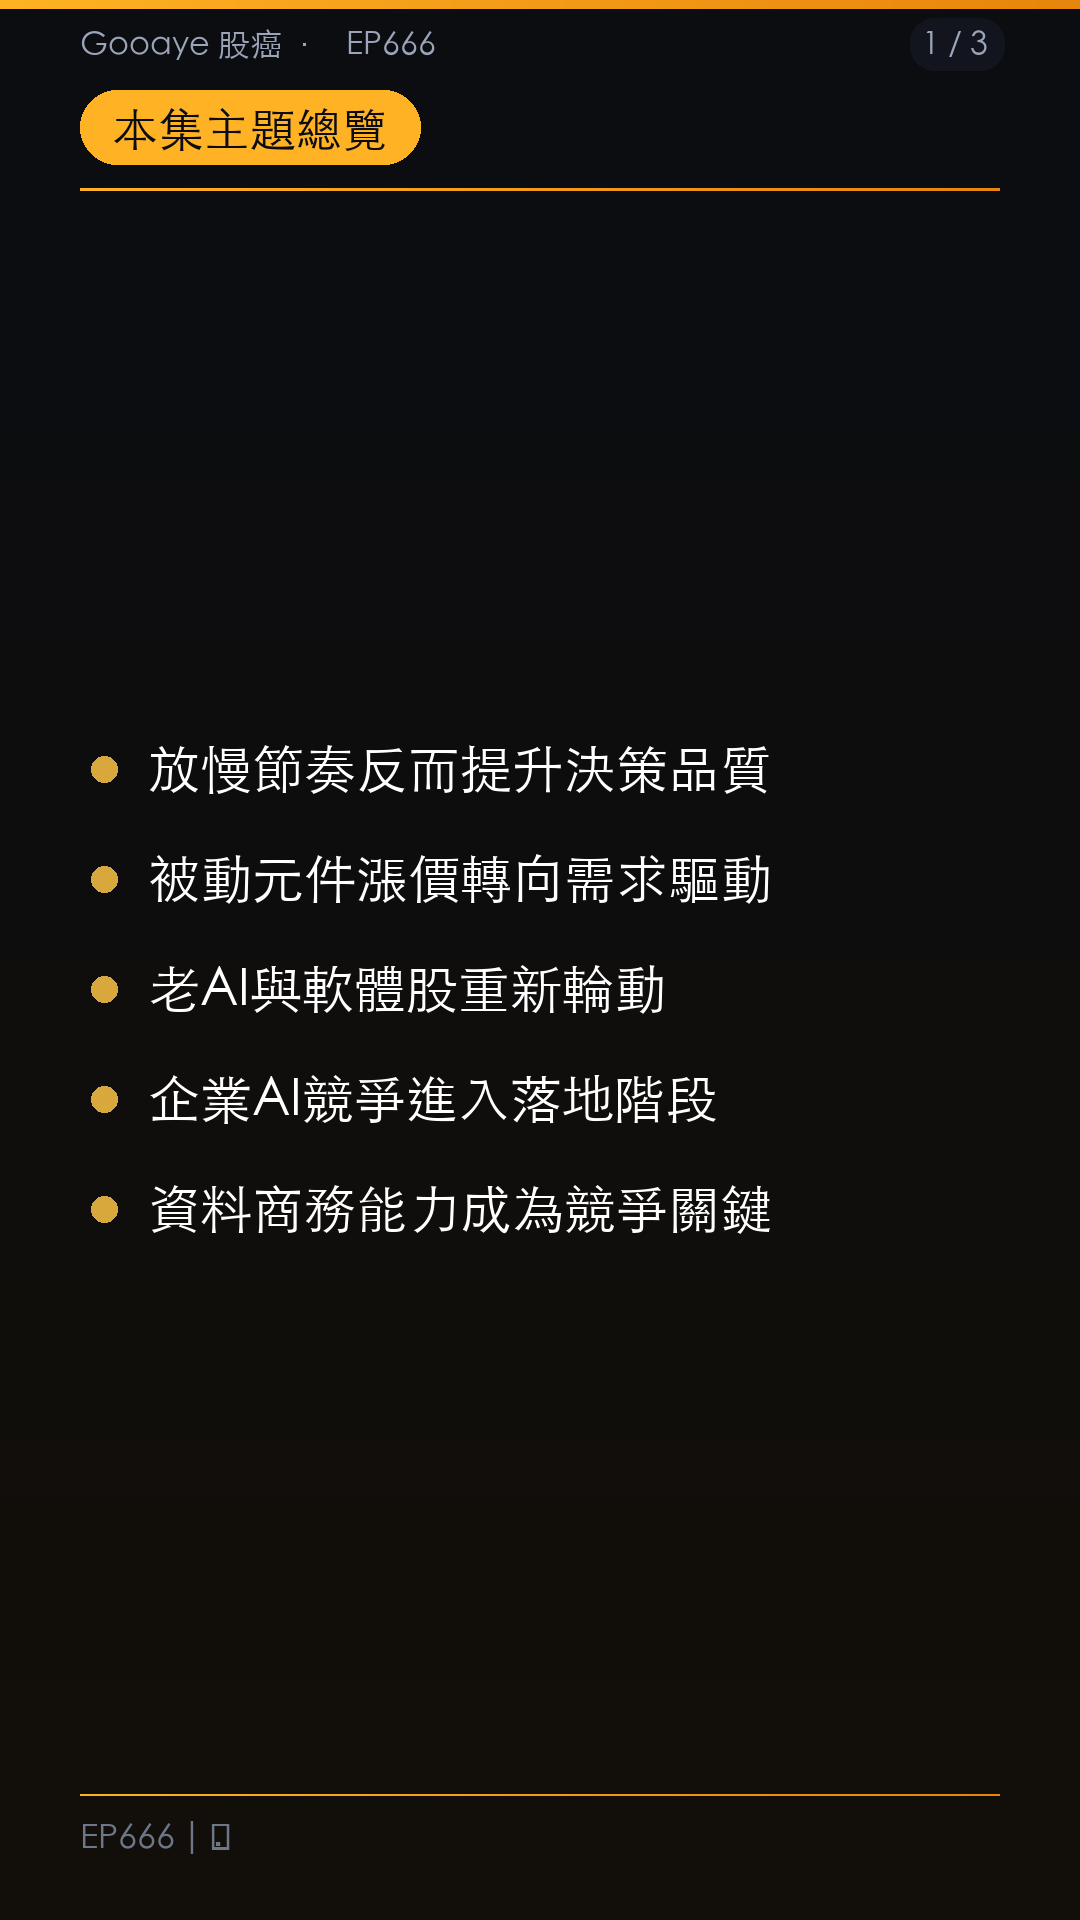
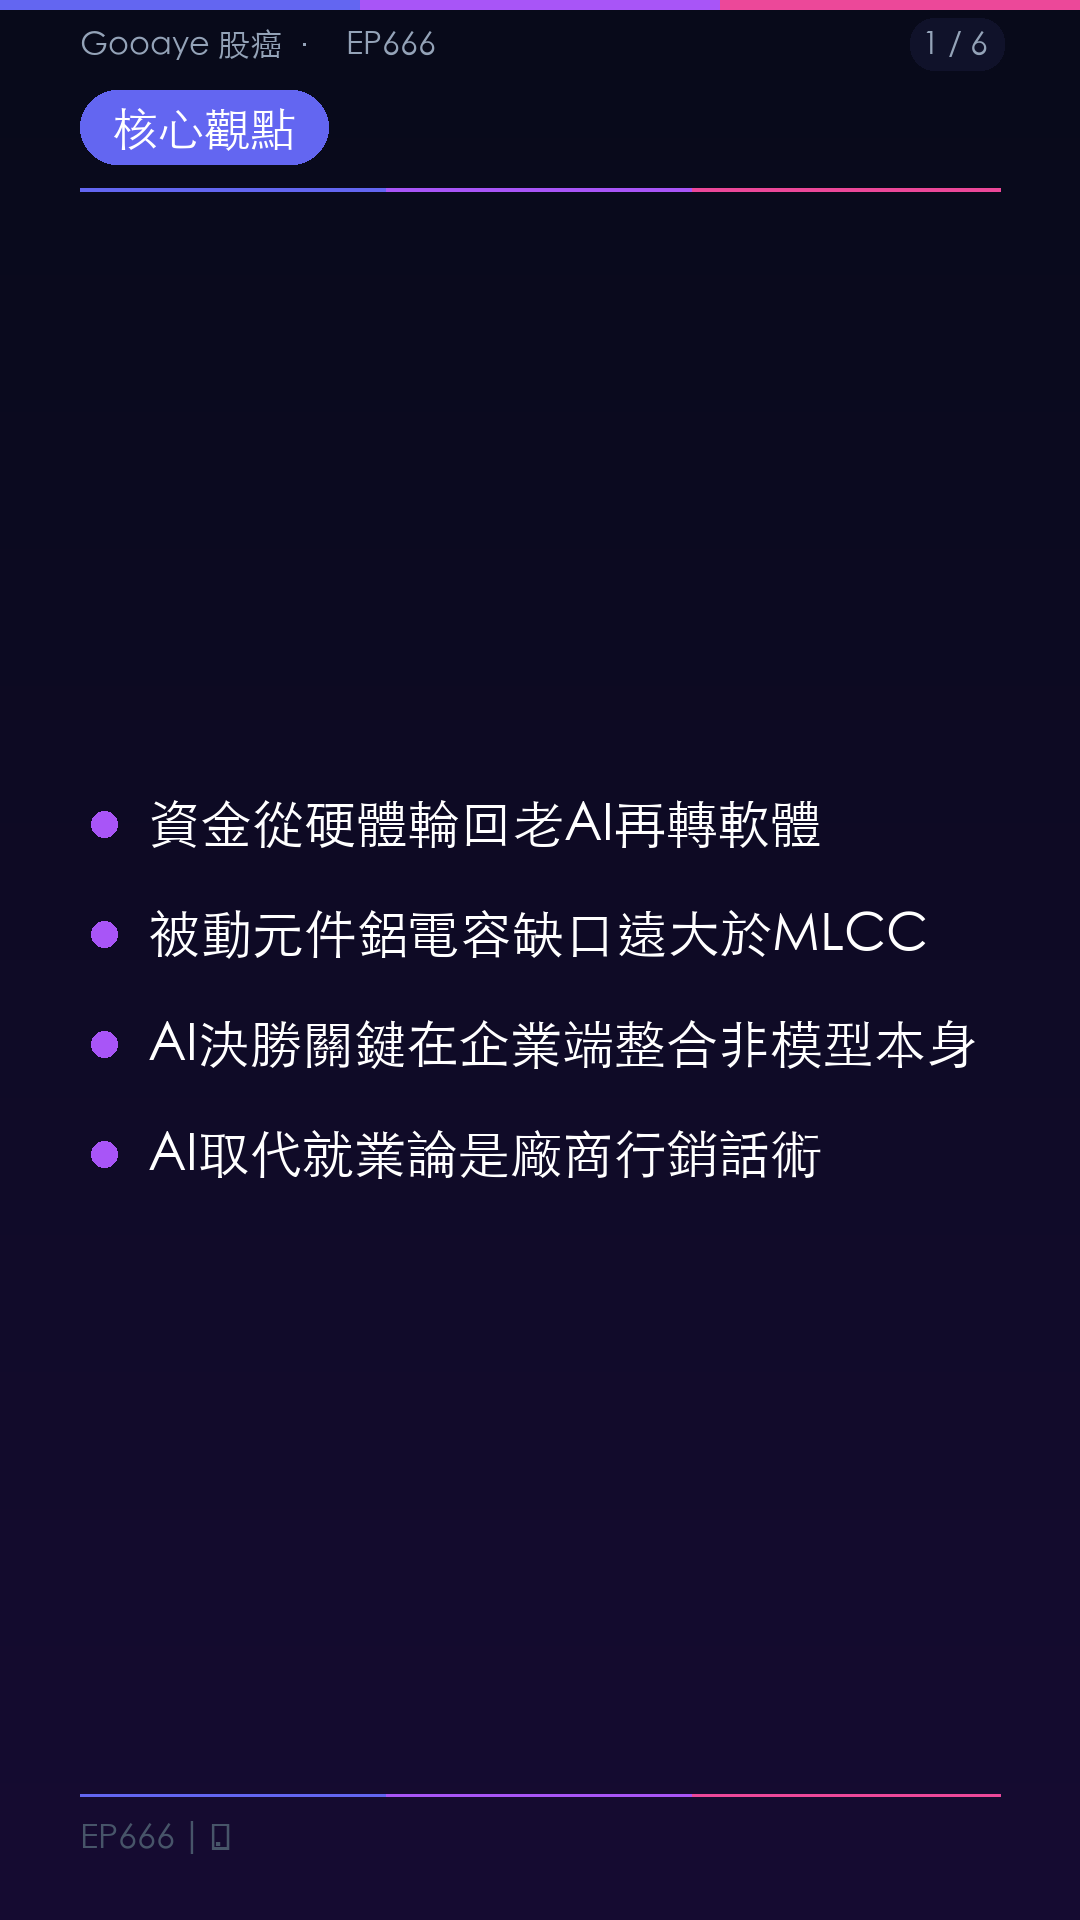
chore: deploy static site — 2026-08-16 00:52

diff --git a/docs/summaries/usGcXJjHwr0.md b/docs/summaries/usGcXJjHwr0.md
@@ -5,66 +5,202 @@ channel_id: UC23rnlQU_qE3cec9x709peA
 channel_name: Gooaye 股癌
 published: 2026-05-30
 processed: 2026-05-30
-hashtags: #被動元件 #AI應用 #台股多頭 #資金輪動 #需求驅動漲價 #Gooaye股癌
+hashtags: #被動元件 #AI軟體股 #資金輪動 #鋁電容 #SaaS #Gooaye股癌
+industries: 台股, 美股, AI
 ---
 
 # EP666 | 🍐
 
 🔗 [YouTube 觀看原片](https://youtube.com/watch?v=usGcXJjHwr0)
 
-## 本集主題總覽
+### 核心觀點
 
 
-放慢生活節奏後，從日常感受延伸到交易效率、身體覺察與方法論思考
 
-台股多頭百花齊放，處置股鎖住資金，被動元件漲價由成本驅動轉向需求驅動
+- 作者認為放慢生活節奏、專注當下細節（近似「內觀」或「正念」），不只改善心靈狀態，對身體（如下背痛）也有實質幫助，並認為這比市場話題更根本重要。
 
-老 AI、ODM／OEM 與軟體股重新輪動，市場資金從光通訊等熱門方向擴散
+- 作者認為市場目前進入「百花齊放」多頭格局，資金從硬體（ODM/OEM）輪動回老AI股、再流向軟體股，是一個有跡可循的循環輪動，不應在任何族群低點時輕易否定其長期價值。
 
-AI 應用進入落地階段，資料、業務能力、商務能力與可歸責性成為競爭關鍵
+- 作者認為被動元件供給缺口不只在MLCC，鋁電容（含SPCAP、OSCON、牛角電容）缺口更大，市場討論度卻不足，屬於被低估的方向。
 
-企業 AI 從大量生成走向精緻化，真正價值在於能否解決問題、控制風險並持續交付
+- 作者認為AI軟體應用進入新階段，未來決勝關鍵不在於模型本身優劣，而在於「業務與商務能力」——能否深入企業端、解決法遵與可歸責性問題的系統整合商，將獲得最大競爭優勢。
 
-
-## 一、放慢節奏反而看得更清楚
+- 作者認為AI「取代就業」的末日論述是廠商的行銷話術，已引發政治反彈，黃仁勳的「AI提升效率、增加hiring」觀點才是作者長期認同的立場。
 
 
-**從反射變感受**
-
-過去喝咖啡、吃飯甚至工作都高度目的導向，只求快速完成，導致一天雖然忙碌，對細節卻幾乎沒有記憶。刻意放慢後，開始真正感受咖啡、天氣與生活過程，一整天也變得更有記憶點。
 
 
-**效率未必有效**
-
-他反思過去追求多工、實用與速度，看起來很有效率，但成果未必更好。交易也是如此，交易量很大不代表工作有效；若投入龐大成交量，只換到很小的報酬率，反而顯得失衡。
+---
 
 
-**覺察改善身體**
-
-開始觀察身體後，他發現下背不適可能來自坐姿過度挺直，讓下背長時間緊繃。搭配深呼吸、物理治療與訓練調整後，日間不適明顯改善，只剩起床時仍有些感覺。
+### 提及標的
 
 
-**方法重於答案**
-
-不同人生階段會注意到不同重點，有人只想拿到「四個數字」，但主委更在意方法論。真正重要的是，當沒有人引導時，仍能自行分析與處理問題，「不要只給他魚，要教他釣魚」。
+**個股／公司（台灣）**
 
 
-## 二、被動元件從成本漲轉需求漲
+
+- 鴻海
+
+- 廣達
+
+- 江海（鋁電容，牛角電容缺口來源）
+
+- 國巨（提及MLCC 2018週期對比）
+
+- 光通訊相關股（2025年表現最強硬體）
+
+- 台積電（TSMC，提及Legacy製程釋放與CPU題材）
+
+- 威剛（SR Lab，提及低點後反彈至300元）
 
 
-**九成資金遭鎖**
 
-主委約 90% 資金位於處置股，不少還是 20 分鐘撮合，短期幾乎無法調度。過去會隨行情上漲持續借款加碼，但近期受到券商額度限制，部位已鎖住近一個月，也不再刻意尋找更多資金來源。
-
-
-**企業開始改口**
-
-一、兩個月前部分被動元件公司仍將漲價視為成本驅動，對第三季後續漲價偏保守；近期說法已轉向需求驅動，顯示實際訂單與供需狀況比公司原先預期更強。
+**個股／公司（美國）**
 
 
-**市場派提前反應**
 
-買方可能比供應商更早知道認證與未來下單，因此公司尚未真正接單時，市場已先交易未來需求。等訂單正式進來，公司態
+- Salesforce（大規模買回庫藏股）
+
+- ServiceNow（作者提及強勁論述）
+
+- Okta
+
+- Snowflake（近期財報優於預期）
+
+- Palantir（2023年軟體噴出案例，二十幾漲至百元以上）
+
+- Cloudflare、CrowdStrike（2023軟體噴出案例）
+
+- Intel（提及CPU題材）
+
+- Micron美光（擴產案例討論）
+
+- OpenAI、Anthropic（提及ARR恐怖數字，應用層佔比大）
+
+- Meta（AI模型幻覺問題、資料取用爭議）
+
+- Google（TPU as a Service，與黑石合作）
+
+- Perplexity（Computer Use產品，作者個人使用心得）
+
+
+
+**ETF**
+
+
+
+- IGV ETF（軟體股指標，作者視為資金流向軟體的表態指標）
+
+- 0050（提及已從定存概念股變成強勢標竿股）
+
+
+
+**產業／族群**
+
+
+
+- 被動元件（MLCC、鋁電容、牛角電容、SPCAP、OSCON、電阻、電桿）
+
+- ODM／OEM／EMS
+
+- 光通訊
+
+- CPU
+
+- GPU／ASIC
+
+- AI軟體股（SaaS轉型、Token-based計費）
+
+- 成熟製程晶圓代工
+
+
+
+
+---
+
+
+### 關鍵數據
+
+
+
+- 作者目前約 **90% 資金** 鎖在處置股，部分為 **20分鐘撮合處置股**
+
+- 江海備忘錄顯示牛角電容全球產能缺口約 **20幾%**
+
+- Palantir案例：股價從 **二十幾元漲至一百多元**
+
+- 威剛（SR Lab）低點後反彈至 **300元**
+
+- 樂花（Leroy）紅酒：村莊級約 **10-12萬**，Rachelberg約 **450萬**，Musigny **破百萬以上**；30年前僅需 **3000元**
+
+- 台灣某聽眾槓桿 **1.2倍**，資產從年初一個奈米戶成長至三個奈米戶
+
+- 台積電TSMC相關題材，券商TP估值已到 **5000**（未納入OpenAI與Terrafab題材）
+
+- 作者本人資產從 **十幾萬** 成長至「遠超」（未揭露具體數字）
+
+
+
+
+---
+
+
+### 創作者點出的機會
+
+
+
+- **鋁電容／牛角電容族群**：作者認為市場過度聚焦MLCC，鋁電容缺口更大（全球缺口逾20%），屬於討論度不足但實際更缺的方向，後續漲價空間可能更大。
+
+- **CPU題材**：作者提及市場從GPU/ASIC轉向注意CPU，認為相關族群已有資金流入訊號。
+
+- **軟體股全面復辟**：IGV ETF拉出明顯突破，Snowflake、Okta等財報超預期，作者視為資金重返軟體的表態。
+
+- **系統整合商（SI）／具備企業業務能力的AI部署公司**：作者認為能解決法遵、可歸責性、客製化部署的業者，在下一階段將凌駕於單純模型競爭。
+
+- **掌握專有資料的公司**：作者認為通用訓練資料邊際效益遞減，能取得封閉式、付費或企業內部資料的公司，將形成護城河。
+
+
+
+
+---
+
+
+### 風險提示
+
+
+
+- 作者本人90%資金鎖於處置股，坦言若市場急跌「完全跑不掉」，流動性風險極高。
+
+- 融資增速過快，作者觀察到市場已有大量投資人以高槓桿入市，後續若出現國際事件或升息訊號，回檔幅度可能超出預期。
+
+- 作者提醒擴產訊息需判斷時間點與品項：在高檔、供給已知嚴重不足時才宣布大擴產，才是需要警惕的訊號；低檔期擴產反而可能是優勢。
+
+- 公司派（內部人）持股比例低，存在被惡意收購（takeover）風險，同時反映部分業者對自身長線前景信心不足。
+
+- AI幻覺與錯誤資訊風險：作者以Meta AI為例，指出AI生成內容錯誤但仍獲大量傳播，企業端導入AI面臨法遵與侵權風險。
+
+
+
+
+---
+
+
+### 創作者建議的觀察方向
+
+
+
+- **被動元件公司法說會與股東會言論**：觀察廠商是否從「成本驅動漲價」改口為「需求驅動漲價」，作者認為這是市場走在公司派前面的關鍵訊號。
+
+- **IGV ETF走勢**：作者視為判斷資金是否正式轉移至軟體股的觀察指標。
+
+- **台灣首富排行動態**：鴻海、廣達等AI硬體業者市值接近，作者認為後續股價變化將帶動「首富賽跑」，可作為族群強弱的側面觀察。
+
+- **TSMC Legacy製程釋出情況**：觀察成熟製程是否因前端製程滿載而帶動後段機會。
+
+- **頂尖AI模型公司大量招聘FDE（前沿部署工程師）**：作者認為此趨勢說明業務與客製化部署能力已成競爭核心，可據此觀察各AI公司的商業化進程。
+
+- **AI軟體公司財報**：特別關注採用Token-based計費轉型的老牌SaaS企業，觀察其收入結構調整成果。
 
 ---
 **⚠ 負責任 AI 聲明與投資風險提示：**
